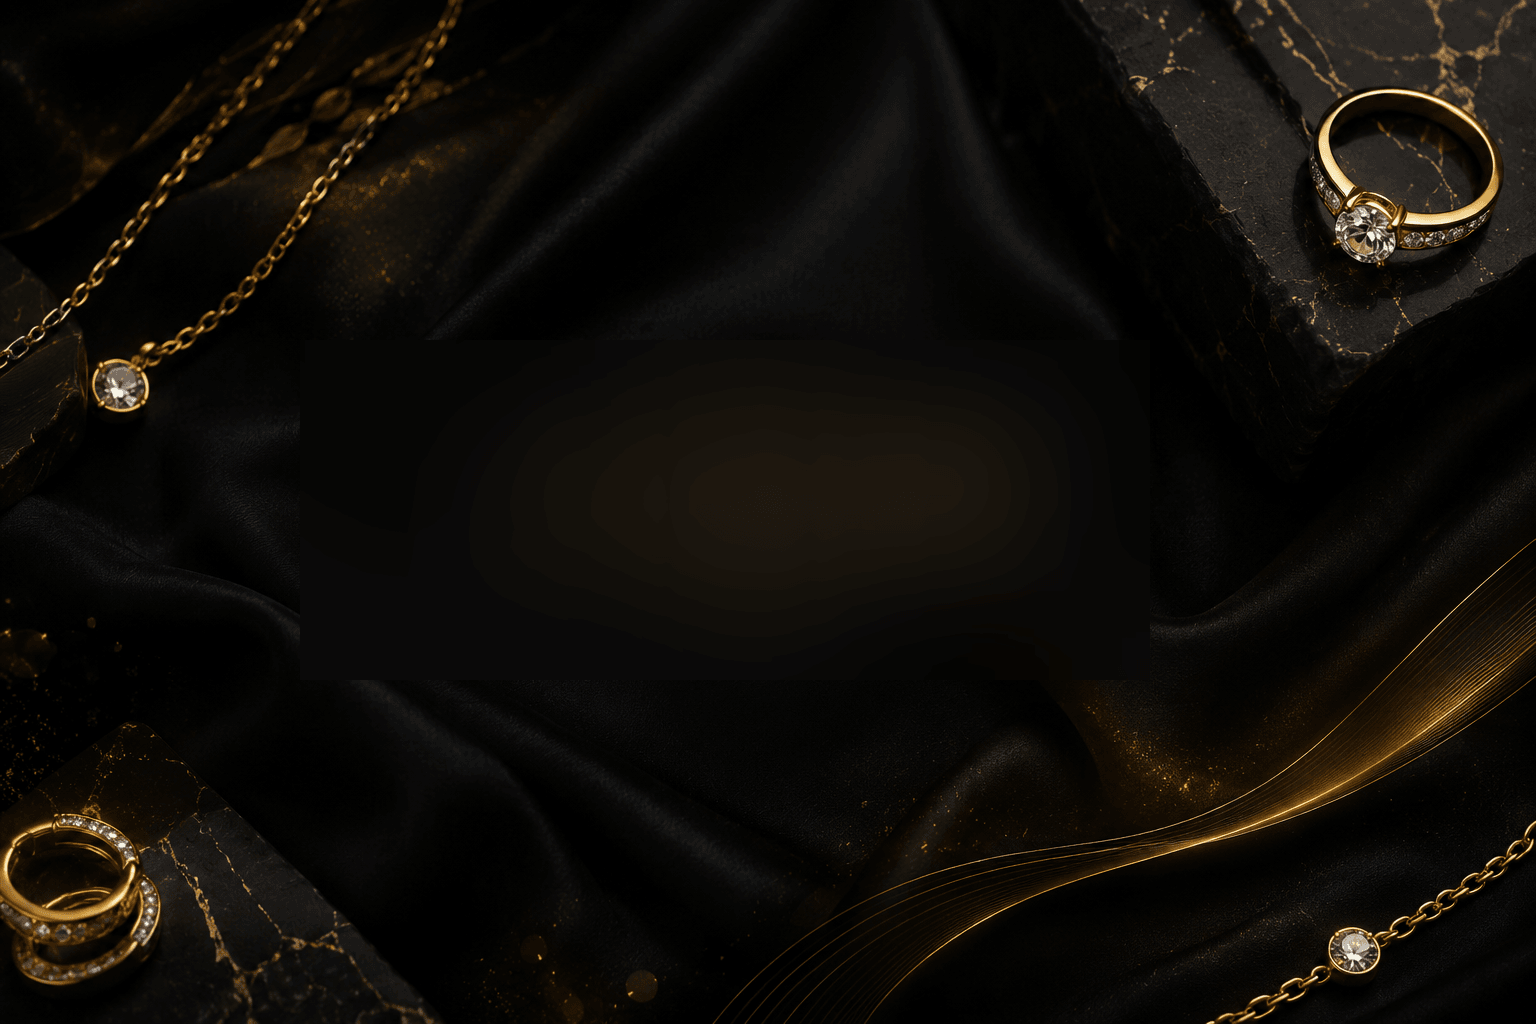
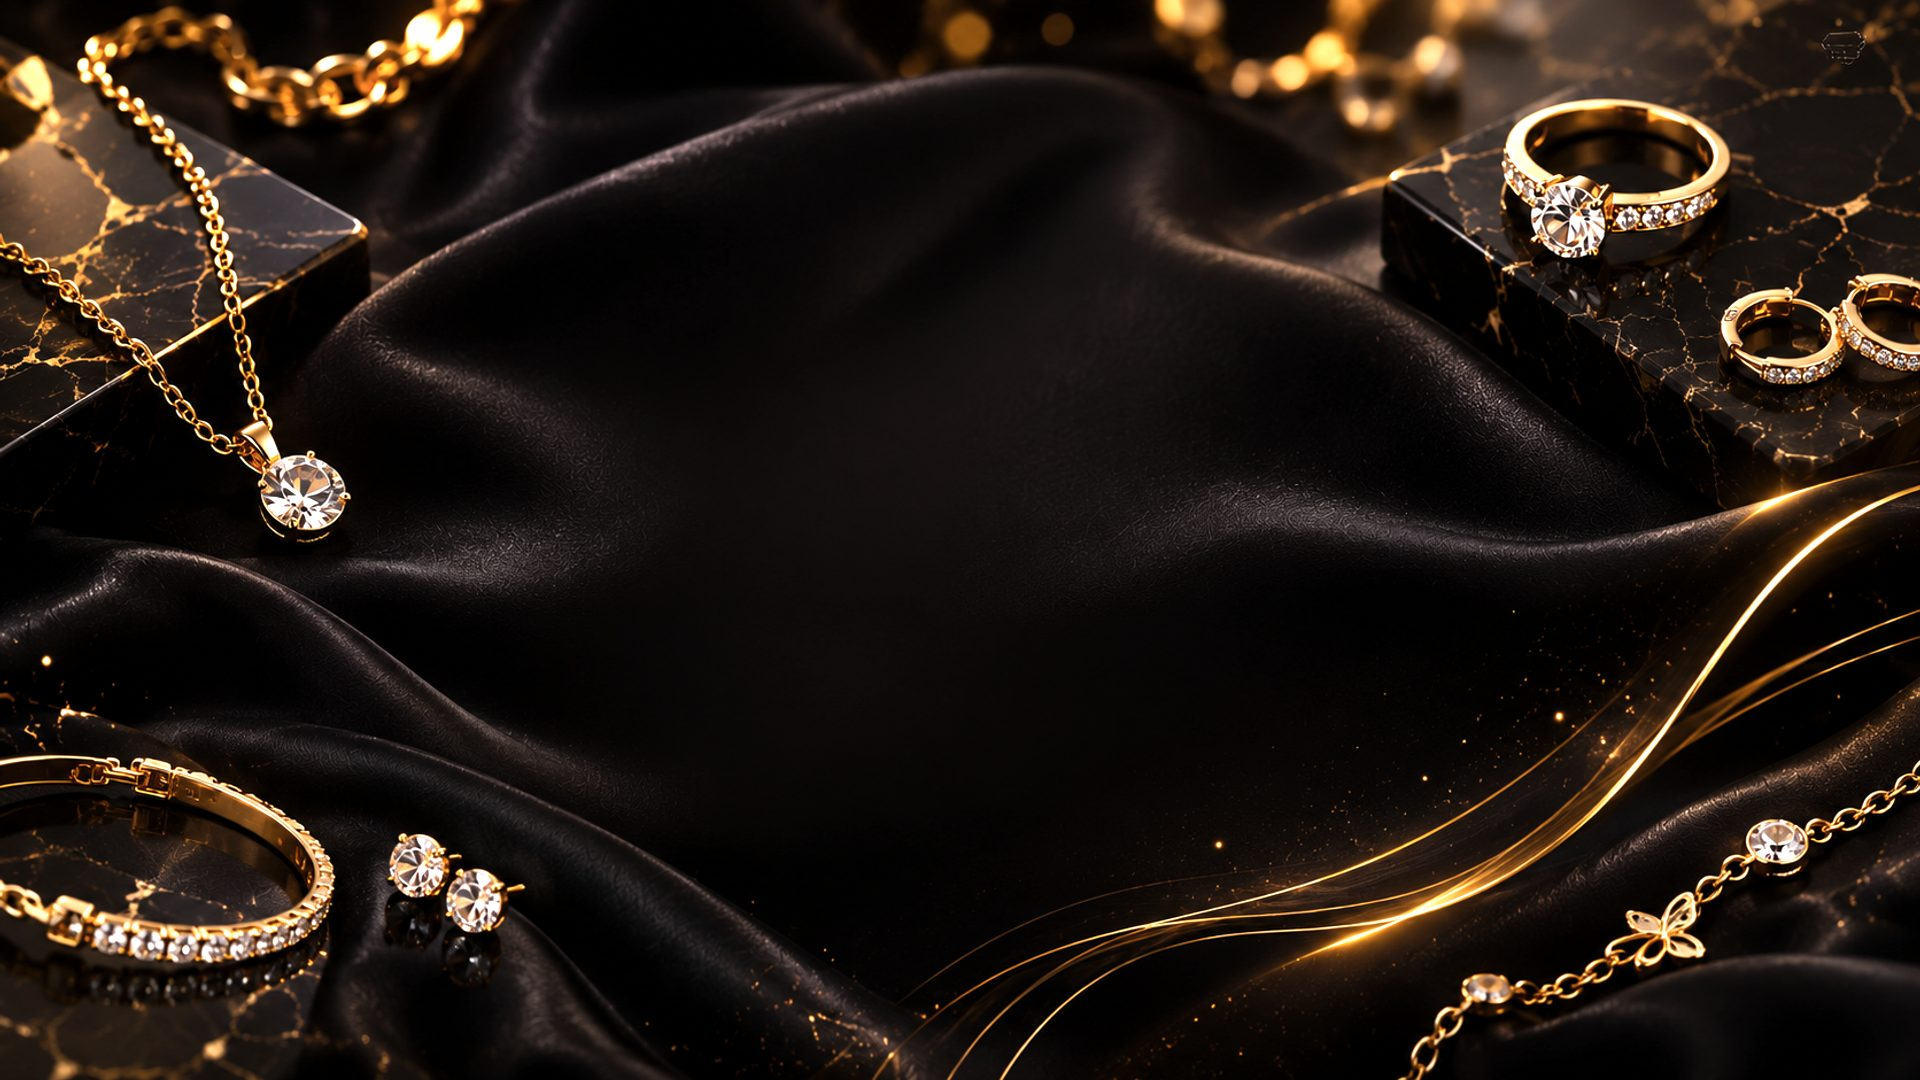
New hero background with dedicated brighter mobile version

diff --git a/src/components/famar/home-view.tsx b/src/components/famar/home-view.tsx
@@ -98,8 +98,9 @@ export function HomeView() {
     <div className="flex flex-col">
       {/* Hero */}
       <section className="relative min-h-[70vh] flex items-center justify-center overflow-hidden">
-        <div className="absolute inset-0 bg-gradient-to-br from-black/80 via-black/60 to-primary/20" />
-        <div className="absolute inset-0 bg-[url('/hero-bg.png')] bg-cover bg-center" />
+        <div className="absolute inset-0 bg-[url('/hero-bg.png')] bg-cover bg-center max-md:hidden" />
+        <div className="absolute inset-0 bg-[url('/hero-bg-mobile.jpg')] bg-cover bg-center md:hidden" />
+        <div className="absolute inset-0 bg-gradient-to-b from-black/60 via-black/25 to-black/60" />
         <div className="relative z-10 text-center px-4 max-w-3xl mx-auto">
           <motion.h1
             initial={{ opacity: 0, y: -20 }}
